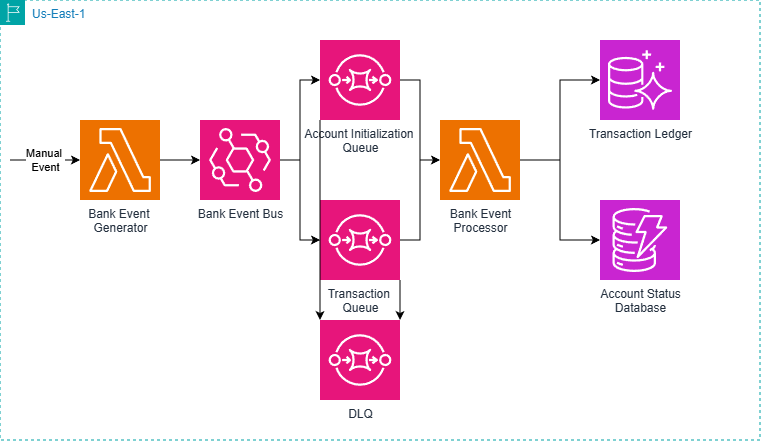
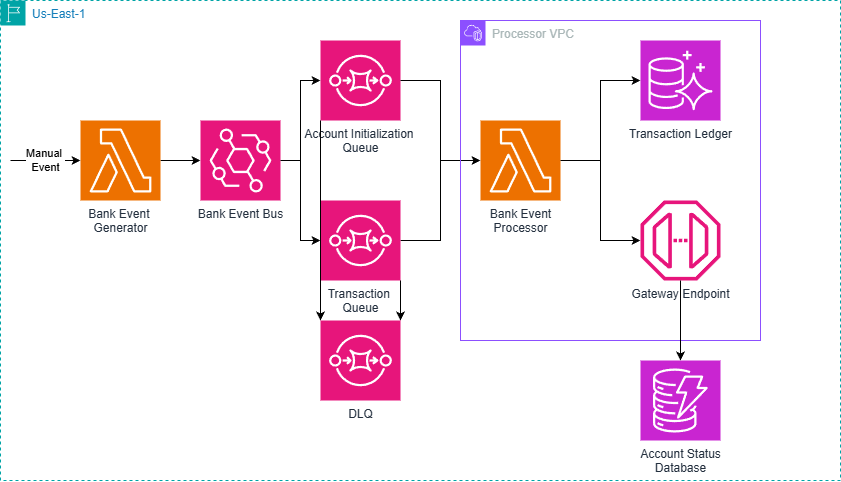
Working on setting up databases

diff --git a/BankingApp/lib/banking_app-stack.ts b/BankingApp/lib/banking_app-stack.ts
@@ -1,11 +1,15 @@
 import * as cdk from 'aws-cdk-lib/core';
-import { Construct } from 'constructs';
+import {Duration} from 'aws-cdk-lib/core';
+import {Construct} from 'constructs';
 import * as lambda from 'aws-cdk-lib/aws-lambda'
 import * as events from 'aws-cdk-lib/aws-events';
 import * as sqs from 'aws-cdk-lib/aws-sqs'
 import * as targets from 'aws-cdk-lib/aws-events-targets';
 import * as lambdaEventSources from 'aws-cdk-lib/aws-lambda-event-sources';
-import {Duration} from "aws-cdk-lib/core";
+import * as ec2 from 'aws-cdk-lib/aws-ec2';
+import * as dynamodb from 'aws-cdk-lib/aws-dynamodb';
+import {AttributeType} from 'aws-cdk-lib/aws-dynamodb';
+import * as rds from 'aws-cdk-lib/aws-rds';
 
 export class BankingAppStack extends cdk.Stack {
   constructor(scope: Construct, id: string, props?: cdk.StackProps) {
@@ -76,7 +80,24 @@ export class BankingAppStack extends cdk.Stack {
       messageGroupId: bankEventBus.eventBusName
     }))
 
+    const processorVPC = new ec2.Vpc(this, 'ProcessorVPC', {
+      ipAddresses: ec2.IpAddresses.cidr('10.0.0.0/16'),
+      maxAzs: 3,
+      natGateways: 1,
+      subnetConfiguration: [
+        {
+          cidrMask: 24,
+          name: 'Private',
+          subnetType: ec2.SubnetType.PRIVATE_WITH_EGRESS
+        }
+      ]
+    })
+
     const bankEventProcessorFunction = new lambda.DockerImageFunction(this, 'BankEventProcessor', {
+      vpc: processorVPC,
+      vpcSubnets: {
+        subnetType: ec2.SubnetType.PRIVATE_WITH_EGRESS,
+      },
       code: lambda.DockerImageCode.fromImageAsset('./bank-event-processor'),
       environment: {
         INITIALIZATION_SQS_NAME: initializationSQS.queueName,
@@ -94,5 +115,34 @@ export class BankingAppStack extends cdk.Stack {
     }))
     //initializationSQS.grantConsumeMessages(bankEventProcessorFunction)
     //transactionSQS.grantConsumeMessages(bankEventProcessorFunction)
+
+
+    const transactionLedgerDatabase = new rds.DatabaseCluster(this, 'MyAuroraCluster', {
+      engine: rds.DatabaseClusterEngine.auroraMysql({
+        version: rds.AuroraMysqlEngineVersion.VER_3_12_0,
+      }),
+      vpc: processorVPC,
+      vpcSubnets: {
+        subnetType: ec2.SubnetType.PRIVATE_WITH_EGRESS,
+      },
+      credentials: rds.Credentials.fromGeneratedSecret('TransactionLedgerAdminUser'),
+      defaultDatabaseName: 'Transactions',
+      removalPolicy: cdk.RemovalPolicy.DESTROY,
+    });
+
+    transactionLedgerDatabase.connections.allowFrom(bankEventProcessorFunction, ec2.Port.tcp(3306))
+
+
+    const accountStateTable = new dynamodb.Table(this, 'MyDynamoTable', {
+      partitionKey: { name: 'id', type: dynamodb.AttributeType.STRING },
+      removalPolicy: cdk.RemovalPolicy.DESTROY, // for dev only
+    });
+
+    processorVPC.addGatewayEndpoint('AccountStateEndpoint', {
+      service: ec2.GatewayVpcEndpointAwsService.DYNAMODB,
+    });
+
+    accountStateTable.grantReadWriteData(bankEventProcessorFunction);
+
   }
 }

diff --git a/BankingApp/bank-event-processor/main.go b/BankingApp/bank-event-processor/main.go
@@ -3,14 +3,17 @@ package main
 import (
 	"context"
 	"encoding/json"
+	"fmt"
 	"log"
 	"os"
+	"strconv"
 
 	"github.com/aws/aws-lambda-go/events"
 	"github.com/aws/aws-lambda-go/lambda"
 	"github.com/aws/aws-sdk-go-v2/aws"
 	"github.com/aws/aws-sdk-go-v2/config"
 	"github.com/aws/aws-sdk-go-v2/service/sqs"
+	"github.com/aws/aws-sdk-go-v2/service/sqs/types"
 )
 
 type InitializationMessage struct {
@@ -32,7 +35,8 @@ type SQSMessage struct {
 var (
 	initialization_queue_URL *string
 	transaction_queue_URL    *string
-	SQSClient                *sqs.Client
+
+	SQSClient *sqs.Client
 )
 
 func getSQSURL(envVarName string) *string {
@@ -68,6 +72,29 @@ func handleInitialization(ctx context.Context, message SQSMessage) error {
 }
 
 func handleTransaction(ctx context.Context, message SQSMessage) error {
+
+	// Check if the initialization queue has any messages first
+	result, err := SQSClient.GetQueueAttributes(ctx, &sqs.GetQueueAttributesInput{
+		QueueUrl: initialization_queue_URL,
+		AttributeNames: []types.QueueAttributeName{
+			types.QueueAttributeNameApproximateNumberOfMessages,
+		},
+	})
+
+	numMessagesStr := result.Attributes[string(types.QueueAttributeNameApproximateNumberOfMessages)]
+	if numMessagesStr == "" {
+		log.Fatal("Unable to get number of messages on initialization queue")
+	}
+
+	numMessages, err := strconv.Atoi(numMessagesStr)
+	if err != nil {
+		log.Fatalf("unable to parse num messages: '%s'", numMessagesStr)
+	}
+
+	if numMessages > 0 {
+		return fmt.Errorf("returning message to queue. '%d' messages on initialization queue take priority", numMessages)
+	}
+
 	return nil
 }
 
